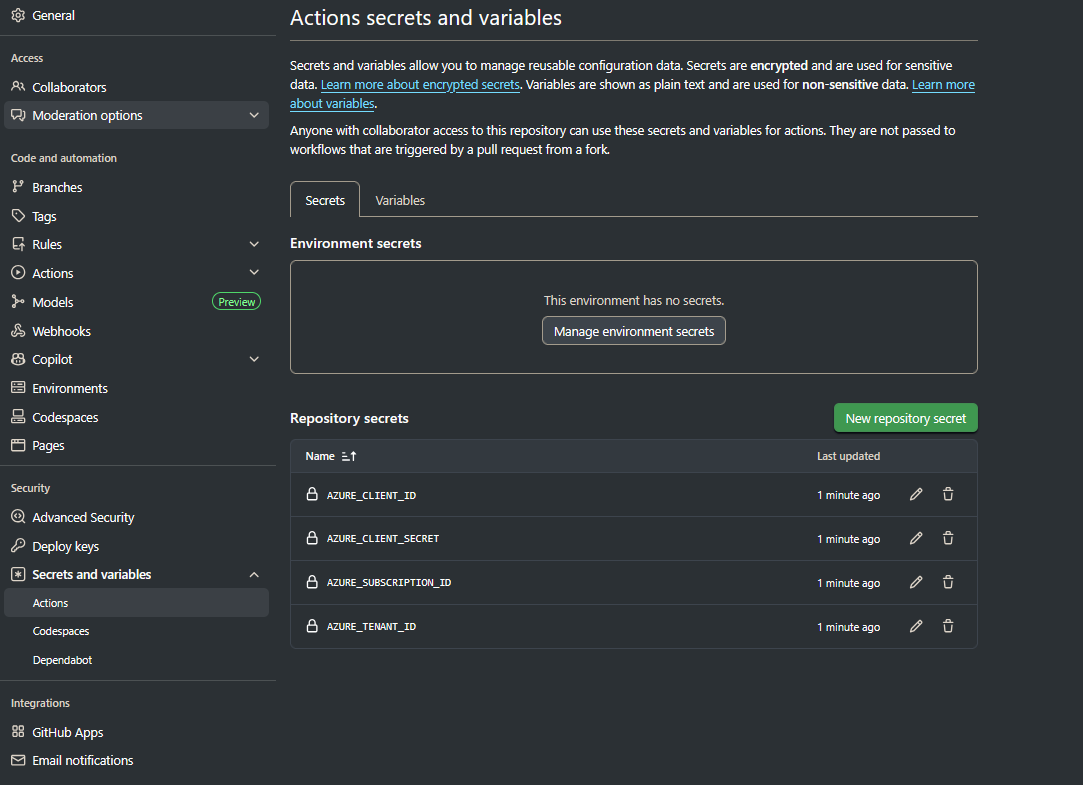
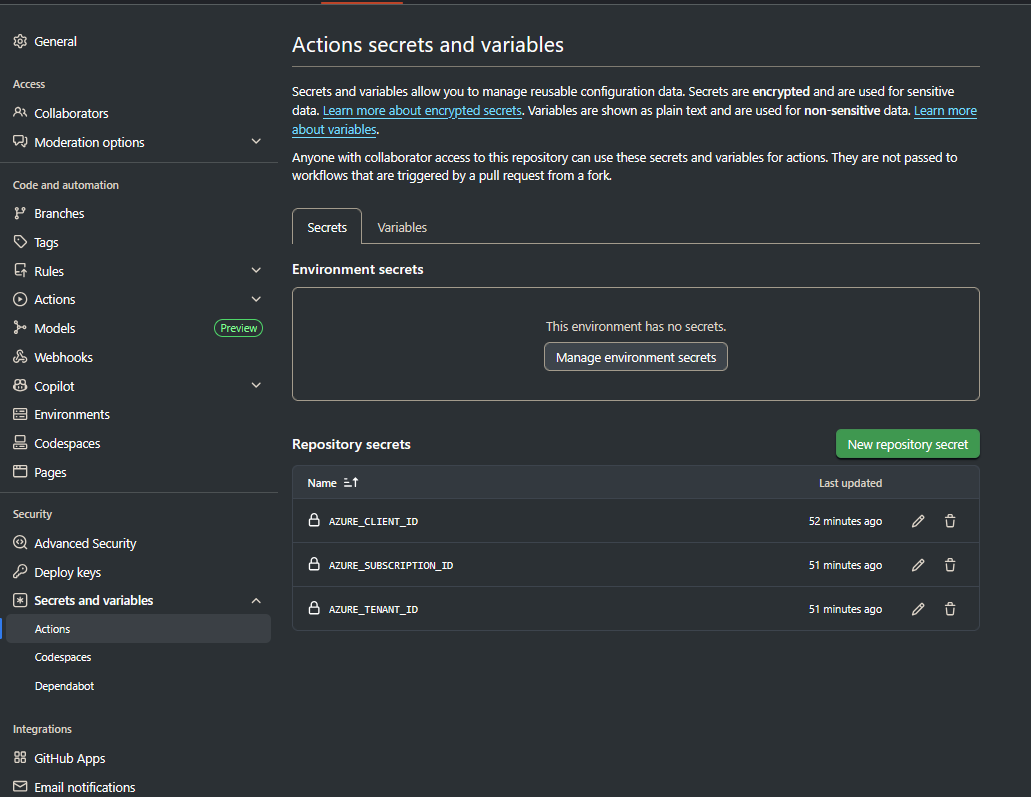
Switch GitHub Actions authentication to OIDC and remove client secret references

diff --git a/README.md b/README.md
@@ -3,6 +3,8 @@
 Automated Azure VM deployment using GitHub Actions and Infrastructure as Code.
 
 # Directroy structure
+
+```
 root/
 ├── .github/
 │   └── workflows/
@@ -16,13 +18,15 @@ root/
 │   └── configure.yml
 ├── .gitignore
 ├── README.md
-# Setup process
+```
 
-Go to 
-https://portal.azure.com/#home
+# Setup process
 
 
 1) Setup an Entra app registration
+
+Go to https://portal.azure.com/#home
+
 - Microsoft Entra ID > App registrations > New registration
 
 - `github-azure-vm-cicd`
@@ -31,14 +35,25 @@ https://portal.azure.com/#home
 
 *For our current use case we do not need Multi-tenant access, Personal Microsoft accounts ,External users, or Redirect URIs*
 
-2) Create a client secret
 
- - Manage > Certificates & Secrets > New client secret 
 
- - Name it and add an expiration date.
- `github-cicd-client-secret`
 
- - Save the Value and secret ID
+2) Enable OIDC Federated Identity
+
+OIDC (OpenID Connect) federated identity is a way for GitHub Actions to log into Azure without using secrets, passwords, or client secrets. It sets up a direct trust between Azure & Github.
+
+Go to  `App registration` > `github-azure-vm-cicd |certifcates & secrets` > `Federated Credentials` > `Add credential`
+ 
+
+- Federated credential scenario : GitHub Actions deploying Azure resources
+- Organization: angusz
+- Repository: azure-vm-cicd
+- Entity type: Branch
+- GitHub branch name: main
+- Credential details: github-oidc-main
+- Description: OIDC federated credential for GitHub Actions (main branch) deploying Azure resources.
+
+
 
 
 3) Create github actions and add secrets
@@ -49,6 +64,9 @@ https://portal.azure.com/#home
 
 It should look something like this:
 ![secrets.png](screenshots/secrets.png)
+
+
+
 
 4) Create github action workflow.
 
@@ -65,7 +83,7 @@ Terraform will automatically create any resources that do not already exist (inc
 
 
 
-5) Add SSH Key to Terraform**
+5) Add SSH Key to Terraform
 
 Terraform needs an SSH **public** key so that *you* can SSH into the VM after it’s created. I happened to generate my key on a Windows machine, but the process works the same on Linux or macOS but the commands might differ a tadbit.
 
